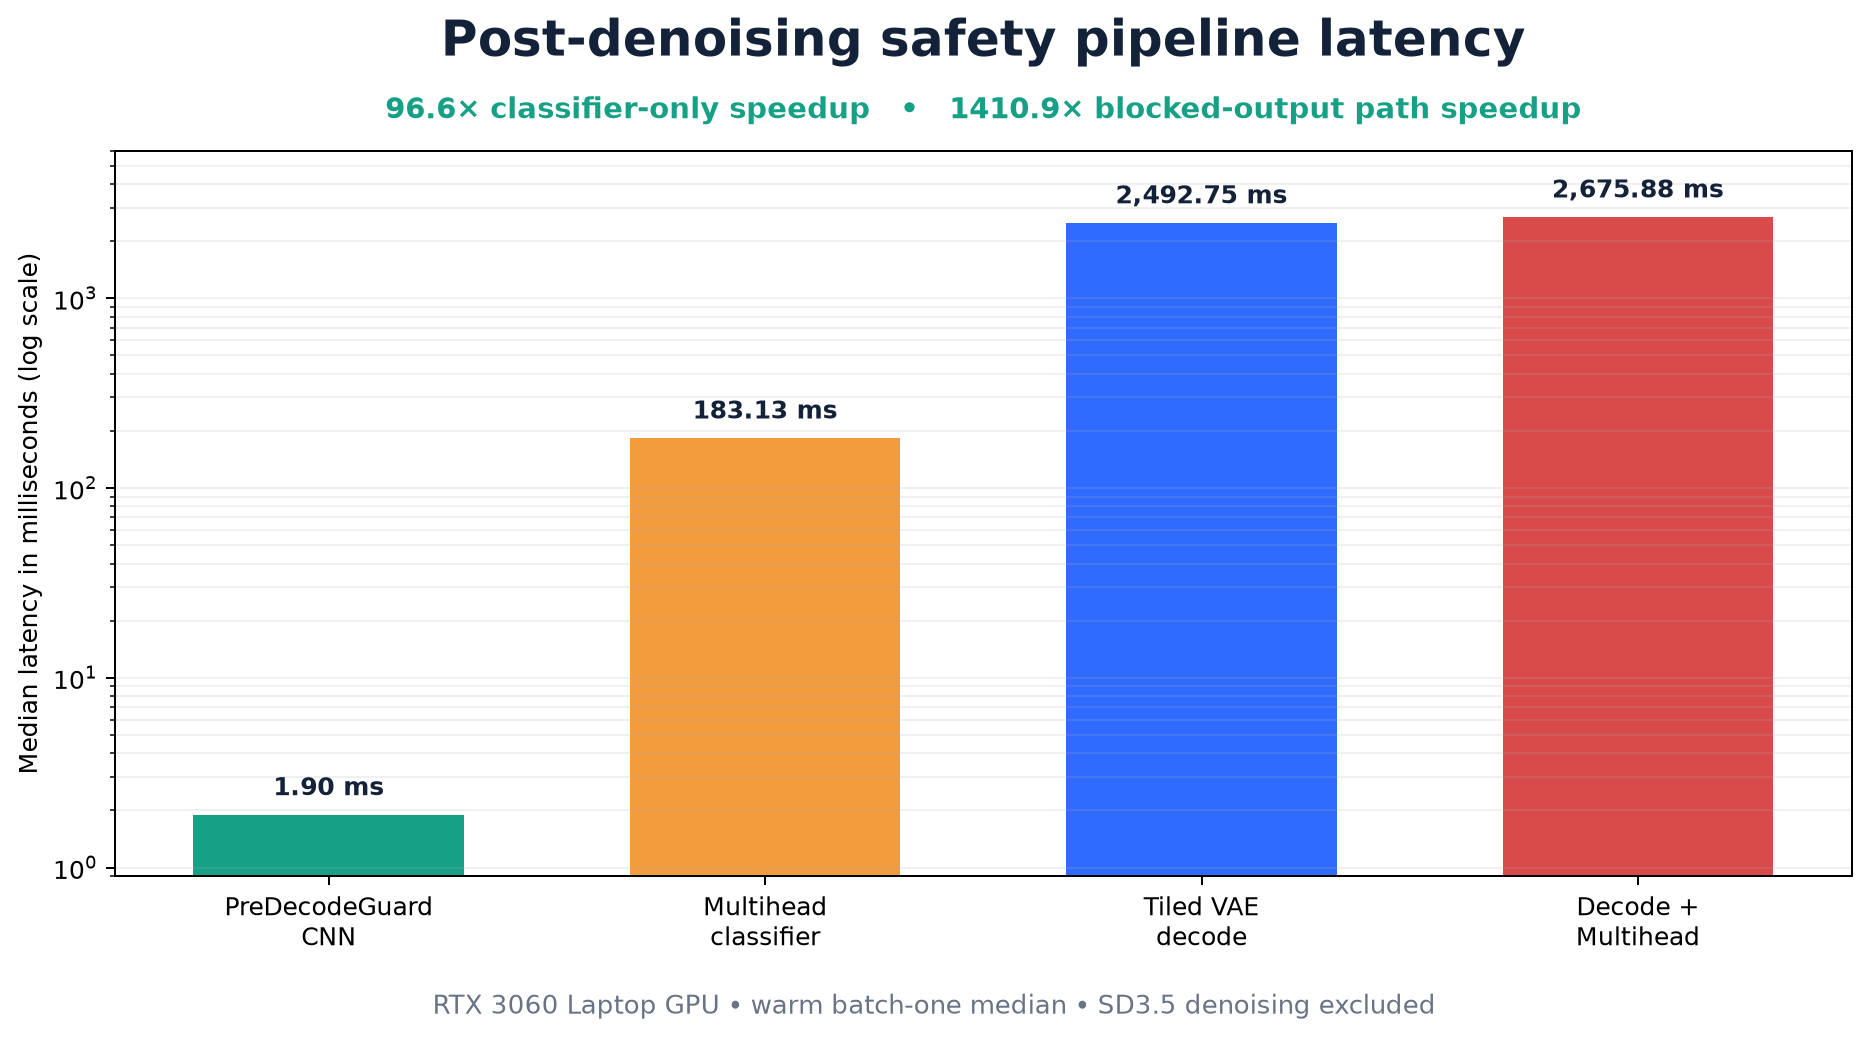
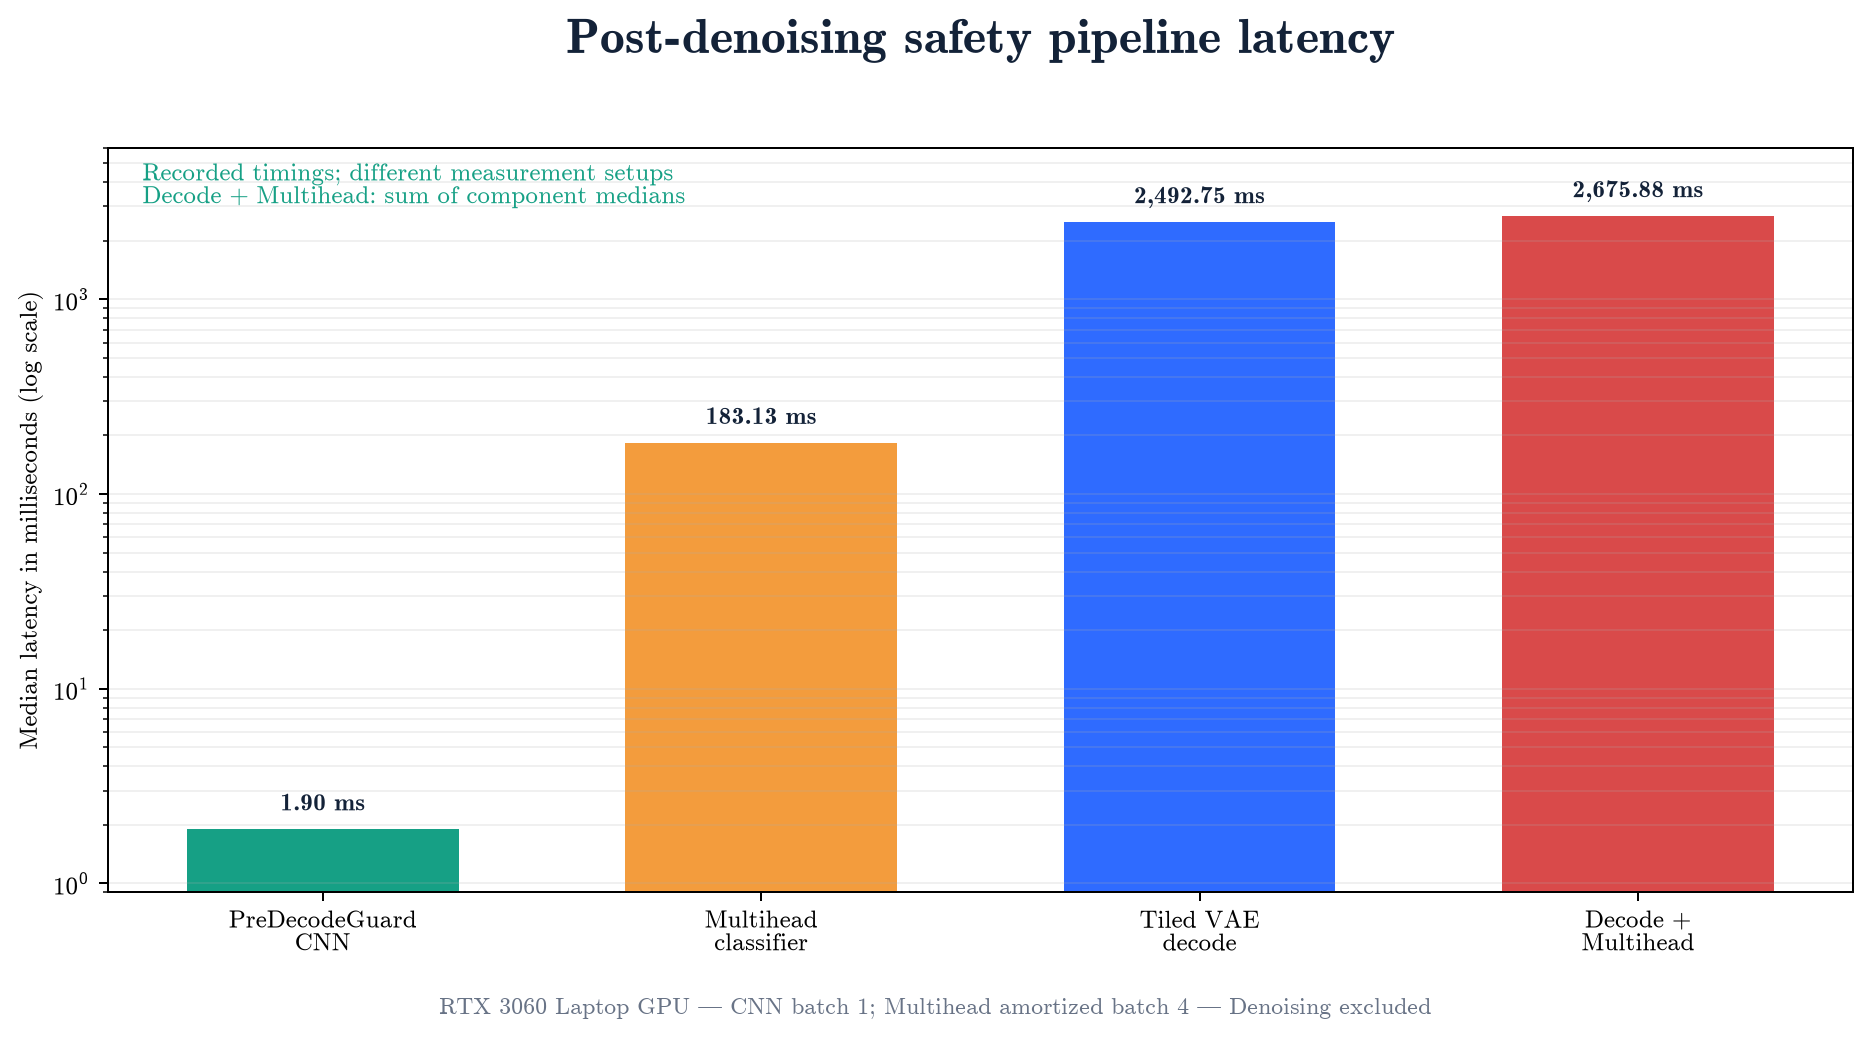
Fix Milestone 2 Colab branch setup

diff --git a/scripts/build_milestone2_ed_visuals.py b/scripts/build_milestone2_ed_visuals.py
@@ -86,6 +86,16 @@ def pipeline_figure() -> None:
 
 
 def performance_figure() -> None:
+    # Matplotlib bundles Computer Modern, so no external TeX install is needed.
+    with plt.rc_context({
+        "font.family": "cmr10",
+        "mathtext.fontset": "cm",
+        "axes.formatter.use_mathtext": True,
+    }):
+        _performance_figure()
+
+
+def _performance_figure() -> None:
     names = ["Pooled\nlatent", "Initial\nCNN", "Expanded\nCNN", "Multihead"]
     balanced = np.array([0.7270, 0.7674, 0.8524, 0.8766])
     recall = np.array([0.6154, 0.6154, 0.7692, 0.7692])
@@ -104,7 +114,7 @@ def performance_figure() -> None:
     axes[0].set_ylim(0.5, 1.02)
     axes[0].set_ylabel("Score (higher is better)")
     axes[0].grid(axis="y", alpha=0.18)
-    axes[0].legend(loc="lower right", frameon=False)
+    axes[0].legend(loc="upper left", frameon=False)
     axes[0].set_title("Detection quality", color=NAVY, weight="bold")
 
     bars = axes[1].bar(x, fpr, color=colors, width=0.68)
@@ -115,11 +125,28 @@ def performance_figure() -> None:
     axes[1].grid(axis="y", alpha=0.18)
     axes[1].set_title("Benign collateral", color=NAVY, weight="bold")
     fig.text(0.5, 0.015, "Expanded CNN matches Multihead harmful recall while remaining weaker in AUROC and benign FPR.", ha="center", fontsize=10.5, color=GREY)
+    # cmr10 and cmb10 are separate bundled families, not linked font weights.
+    from matplotlib.font_manager import FontProperties
+    from matplotlib.text import Text
+
+    bold_font = Path(matplotlib.get_data_path()) / "fonts" / "ttf" / "cmb10.ttf"
+    for label in fig.findobj(Text):
+        if label.get_fontweight() == "bold":
+            label.set_fontproperties(FontProperties(fname=bold_font, size=label.get_fontsize()))
     fig.tight_layout(rect=(0, 0.045, 1, 0.95))
     save(fig, "performance_comparison.png")
 
 
 def latency_figure() -> None:
+    with plt.rc_context({
+        "font.family": "cmr10",
+        "mathtext.fontset": "cm",
+        "axes.formatter.use_mathtext": True,
+    }):
+        _latency_figure()
+
+
+def _latency_figure() -> None:
     labels = ["PreDecodeGuard\nCNN", "Multihead\nclassifier", "Tiled VAE\ndecode", "Decode +\nMultihead"]
     values = np.array([1.8965, 183.1275, 2492.7486, 2675.8761])
     colors = [TEAL, ORANGE, BLUE, RED]
@@ -132,8 +159,15 @@ def latency_figure() -> None:
     ax.grid(axis="y", which="both", alpha=0.18)
     for bar, value in zip(bars, values):
         ax.text(bar.get_x() + bar.get_width()/2, value * 1.18, f"{value:,.2f} ms", ha="center", va="bottom", fontsize=10, weight="bold", color=NAVY)
-    ax.text(0.5, 1.035, "96.6× classifier-only speedup   •   1410.9× blocked-output path speedup", transform=ax.transAxes, ha="center", va="bottom", fontsize=11.5, color=TEAL, weight="bold")
-    fig.text(0.5, 0.02, "RTX 3060 Laptop GPU • warm batch-one median • SD3.5 denoising excluded", ha="center", fontsize=10.5, color=GREY)
+    ax.text(0.02, 0.98, "Recorded timings; different measurement setups\nDecode + Multihead: sum of component medians", transform=ax.transAxes, ha="left", va="top", fontsize=10, color=TEAL)
+    fig.text(0.5, 0.02, "RTX 3060 Laptop GPU | CNN batch 1; Multihead amortized batch 4 | Denoising excluded", ha="center", fontsize=9.5, color=GREY)
+    from matplotlib.font_manager import FontProperties
+    from matplotlib.text import Text
+
+    bold_font = Path(matplotlib.get_data_path()) / "fonts" / "ttf" / "cmb10.ttf"
+    for label in fig.findobj(Text):
+        if label.get_fontweight() == "bold":
+            label.set_fontproperties(FontProperties(fname=bold_font, size=label.get_fontsize()))
     fig.tight_layout(rect=(0, 0.05, 1, 1))
     save(fig, "latency_comparison.png")
 

diff --git a/scripts/build_milestone2_notebook.py b/scripts/build_milestone2_notebook.py
@@ -161,10 +161,14 @@ import sys
 
 IN_COLAB = "google.colab" in sys.modules
 REPO_URL = "https://github.com/OsamaAbuReidy/fit5230-safe-latent-diffusion.git"
-REPO_DIR = Path("/content/fit5230-safe-latent-diffusion") if IN_COLAB else Path.cwd()
+REPO_REF = "milestone1-sd35-jailbreak-scope"
+REPO_DIR = Path("/content/fit5230-safe-latent-diffusion-m2") if IN_COLAB else Path.cwd()
 
 if IN_COLAB and not REPO_DIR.exists():
-    subprocess.run(["git", "clone", "--depth", "1", REPO_URL, str(REPO_DIR)], check=True)
+    subprocess.run(
+        ["git", "clone", "--depth", "1", "--branch", REPO_REF, REPO_URL, str(REPO_DIR)],
+        check=True,
+    )
 if not (REPO_DIR / "scripts" / "run_milestone2_bundle.py").exists():
     raise FileNotFoundError("Run this notebook from the repository root or open it in Colab.")
 

diff --git a/docs/milestone2-ed-post-draft.md b/docs/milestone2-ed-post-draft.md
@@ -62,8 +62,12 @@ ablation rather than hiding it or selecting it as our main checkpoint.
 
 ### Measured runtime
 
-All latency measurements below used the same RTX 3060 Laptop GPU and warm,
-batch-one inference:
+All latency measurements below used the same RTX 3060 Laptop GPU and excluded
+SD3.5 denoising. The CNN is a warm batch-one model-only measurement. The
+Multihead figure is the recorded per-image time from batches of four and
+includes its image preprocessing. The decode-plus-Multihead value is the sum of
+separately measured component medians, so this is a practical component estimate
+rather than a controlled end-to-end benchmark:
 
 | Component | Median time |
 |---|---:|
@@ -72,11 +76,11 @@ batch-one inference:
 | ComfyUI tiled VAE decode | 2492.75 ms |
 | Decode plus Multihead decision | 2675.88 ms |
 
-The classifier-only speedup is **96.6x**. For an output that is blocked, the
-measured post-denoising decision path is **1410.9x faster** because
-PreDecodeGuard does not decode the unsafe latent. SD3.5 denoising is common to
-both pipelines and is excluded from this comparison. Safe outputs are still
-decoded normally.
+The recorded values imply a **96.6x** classifier-time ratio. For an output that
+is blocked, the component medians imply a **1410.9x** post-denoising latency
+ratio because PreDecodeGuard avoids VAE decoding. These ratios are indicative,
+not an apples-to-apples model benchmark. Safe outputs are still decoded
+normally.
 
 ![Post-denoising latency comparison](assets/milestone2/latency_comparison.png)
 
@@ -87,13 +91,16 @@ Multihead, one difficult non-violent case allowed by the CNN but blocked by
 Multihead, and one transparent CNN false positive. The frozen human labels and
 thresholds are preserved; these examples were not used for post-test tuning.
 
-![Three frozen-test audit examples](assets/milestone2/qualitative_examples.png)
+![Qualitative audit examples](assets/milestone2/qualitative_examples.png)
 
-### Functional base code and reproducibility
+These selected examples illustrate complementary strengths and remaining
+errors; they do not establish overall superiority.
 
-The public repository provides:
+### Reproducibility package
 
-- the self-contained Milestone 2 notebook with saved outputs;
+The repository provides:
+
+- a Milestone 2 notebook with saved outputs;
 - the fixed prompt-free pooled-feature bundle and frozen splits;
 - the spatial CNN training and bootstrap-analysis scripts;
 - the faithful Multihead evaluation runner and stored row-level scores;
